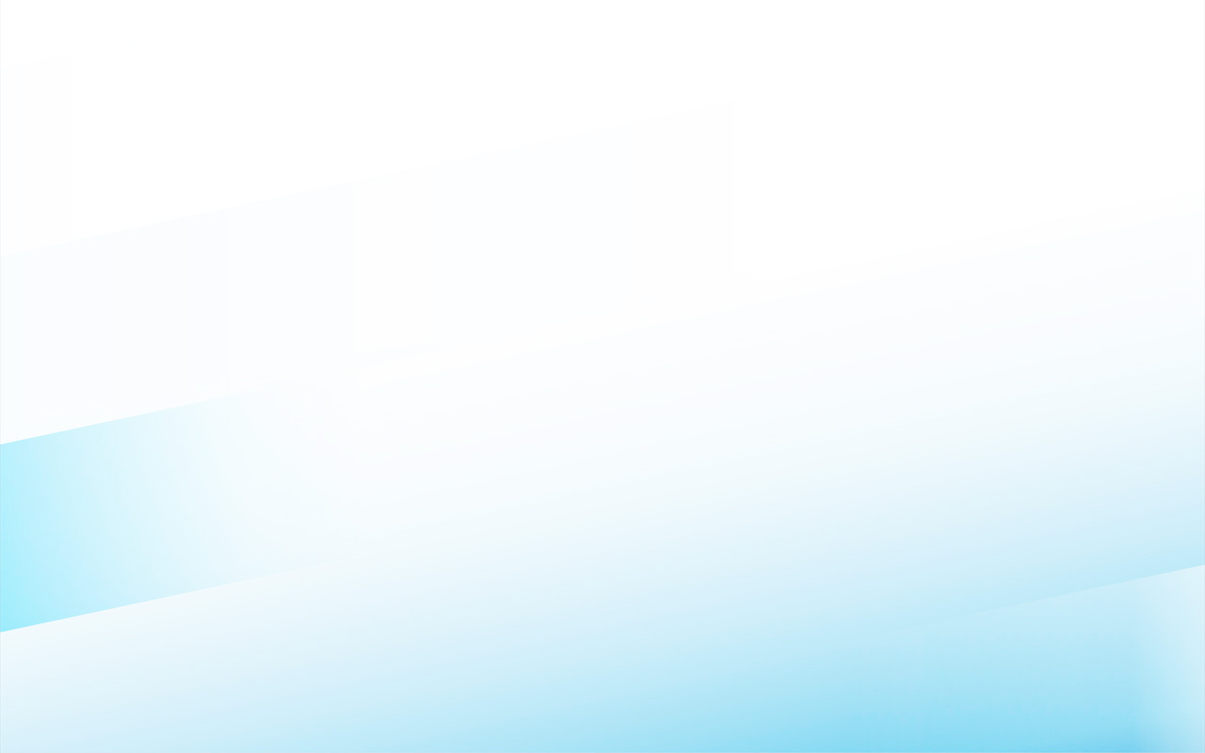
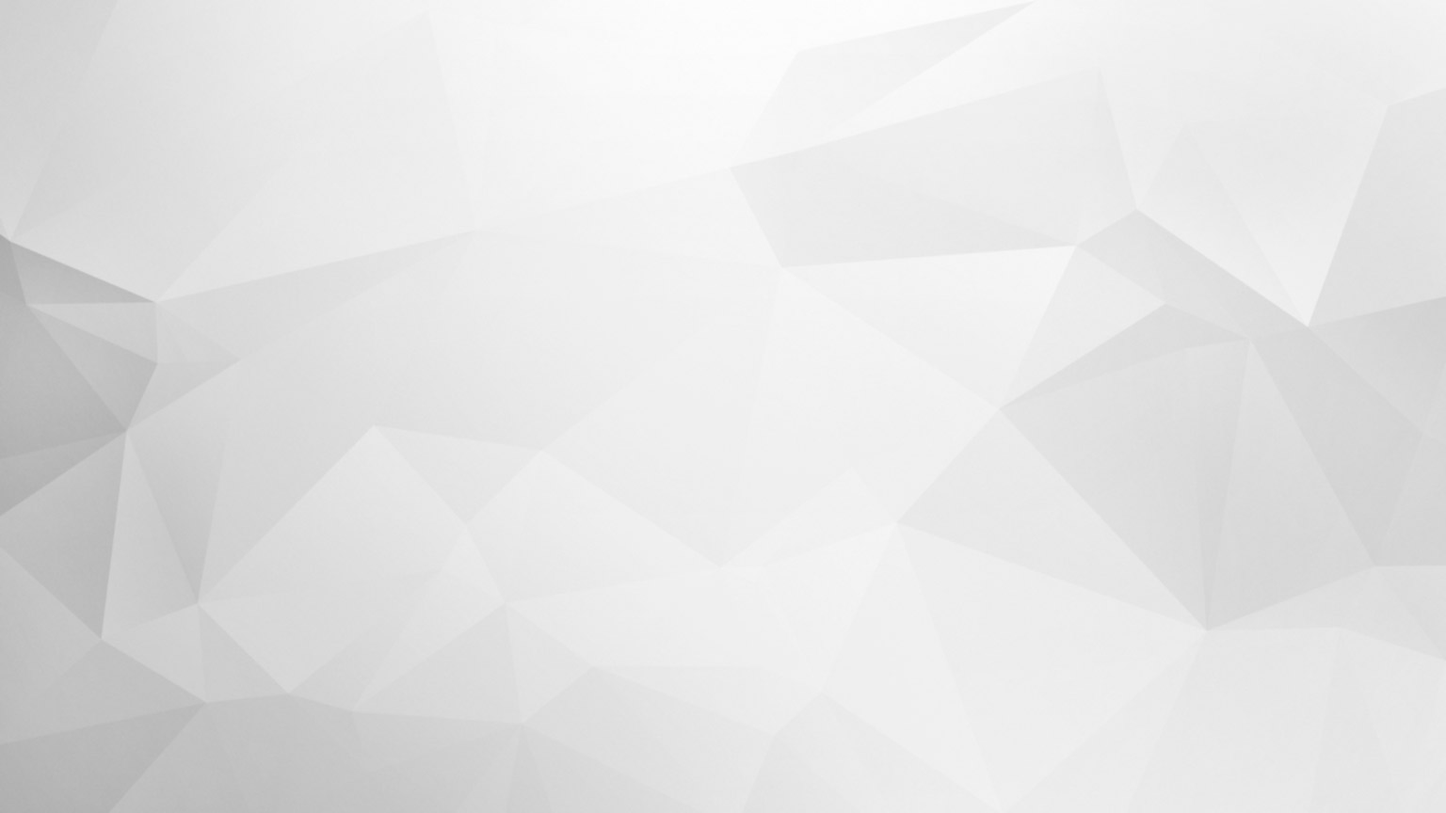
1

diff --git a/index.html b/index.html
@@ -5,7 +5,7 @@
 	<meta charset="UTF-8">
 	<meta http-equiv="X-UA-Compatible" content="IE=edge">
 	<meta name="viewport" content="width=device-width, initial-scale=1.0">
-	<link rel="shortcut icon" href="./favicon.png" type="image/x-icon" />
+	<link rel="shortcut icon" href="assets/img/favicon.png" type="image/x-icon" />
 	<script src="./assets/js/jquery-3.6.1.min.js"></script>
 	<link rel="stylesheet" href="./assets/css/null.css">
 	<link rel="stylesheet" href="./assets/css/preloader.css">
@@ -14,15 +14,13 @@
 	<link rel="stylesheet" href="./assets/css/header.css">
 	<link rel="stylesheet" href="./assets/css/intro.css">
 	<link rel="stylesheet" href="./assets/css/services.css">
-	<!--	<link rel="stylesheet" href="./assets/css/work.css">-->
-	<!--	<link rel="stylesheet" href="./assets/css/footer.css">-->
+	<link rel="stylesheet" href="./assets/css/work.css">
+	<link rel="stylesheet" href="./assets/css/contacts.css">
 	<!--	<link rel="stylesheet" href="./assets/css/comments.css">-->
 	<title>РЦТ</title>
 </head>
 
 <body>
-
-	<!-- --- Preloader --- -->
 
 	<div class="preloader">
 		<div class="preloader_loader">
@@ -72,11 +70,14 @@
 				<div class="intro">
 					<div class="intro_text">
 						<h1 class="title" data-aos="fade-right" data-aos-delay="0">Ремонт цифровой техники</h1>
-						<h2 class="suptitle" data-aos="fade-left" data-aos-delay="0">Простые решения для сложных проблем</h2>
-						<h3 class="desc" data-aos="fade-up" data-aos-delay="0">Осуществляем широкий спектр профессиональных услуг по ремонту цифровой техники
+						<h2 class="suptitle" data-aos="fade-left" data-aos-delay="0">Простые решения для сложных проблем
+						</h2>
+						<h3 class="desc" data-aos="fade-up" data-aos-delay="0">Осуществляем широкий спектр
+							профессиональных услуг по ремонту цифровой техники
 							любой сложности</h3>
 					</div>
-					<div class="intro_bg" data-aos="zoom-out" data-aos-duration="1500" data-aos-delay="400" data-aos-once="true">
+					<div class="intro_bg" data-aos="zoom-out" data-aos-duration="1500" data-aos-delay="400"
+						data-aos-once="true">
 						<img class="intro_bg_img_normal" src="./assets/img/intro-bg.png">
 						<img class="intro_bg_img_opacity" src="./assets/img/intro-bg_opacity.png">
 					</div>
@@ -143,20 +144,122 @@
 
 		<div class="section">
 			<div class="container">
-				<h1 style="display: flex; justify-content: center; align-items: center; font-size: 7em; height: 100vh;">Work</h1>
+				<h1 style="display: flex; justify-content: center; align-items: center; font-size: 7em; height: 100vh;">
+					Work</h1>
+			</div>
+		</div>
+
+		<div class="section section_relative">
+			<div class="container">
+				<div class="contacts">
+					<div class="contacts_inner">
+						<div class="contacts_header">
+							<h1 class="visible_pc">Наш адрес: г. Балаково, ул. Пионерская 1а</h1>
+							<h1 class="visible_mobile">г. Балаково, ул. Пионерская 1а</h1>
+						</div>
+						<div class="contacts_feedback">
+							<div class="modal_feedback">
+								<div class="modal_header">
+									<h1>Отправить сообщение</h1>
+								</div>
+								<div class="close_modal_feedback">
+									<span></span>
+								</div>
+								<form class="">
+									<div class="wrapper_contact">
+										<input class="input_form input_contact" placeholder="Ваше имя" type="text"
+											id="name" name="name" autocomplete="new-password" required>
+									</div>
+									<div class="wrapper_contact">
+										<input class="input_form input_contact" placeholder="Ваш email" type="email"
+											id="email" name="email" autocomplete="off" required>
+									</div>
+									<div class="wrapper_contact">
+										<input class="input_form input_contact" placeholder="Ваш телефон" type="text"
+											id="phone" name="phone" autocomplete="new" required>
+									</div>
+									<div class="wrapper_text">
+										<textarea class="input_form input_text" placeholder="Введите ваше сообщение"
+											id="message" name="message" required></textarea>
+									</div>
+									<div class="wrapper_btn">
+										<input class="input_form input_btn" type="submit" value="Отправить" />
+									</div>
+								</form>
+							</div>
+							<div class="social">
+								<a class="social_group social_start" href="tel:+79378048908">
+									<svg class="social_ico" viewBox="0 0 100 100">
+										<path class="st0"
+											d="M88,100H12c-6.6,0-12-5.4-12-12V12C0,5.4,5.4,0,12,0h76c6.6,0,12,5.4,12,12v76C100,94.6,94.6,100,88,100z" />
+										<path class="st1"
+											d="M72.4,61c-13.7-10.6-7.6,13.4-27-7.2c-18.8-18,3.7-11.9-6.4-26.2c-5.4-8.1-13.1-3.7-15.8,3.6c-0.3,16.4,17.3,33.8,31.1,41.9c4.6,2.8,13.1,4.5,15.7,3.4C76.8,72.6,80,66.3,72.4,61z" />
+									</svg>
+									<div class="social_title">+7 (937) 804-89-08</div>
+								</a>
+								<a class="social_group social_center visible_mobile">
+									<svg class="social_ico" viewBox="0 0 100 100">
+										<path class="st0"
+											d="M88,100H12c-6.6,0-12-5.4-12-12V12C0,5.4,5.4,0,12,0h76c6.6,0,12,5.4,12,12v76C100,94.6,94.6,100,88,100z" />
+										<path class="st1"
+											d="M76,72.5H24c-2.6,0-4.7-2.1-4.7-4.7V32.1c0-2.6,2.1-4.7,4.7-4.7H76c2.6,0,4.7,2.1,4.7,4.7v35.8C80.7,70.5,78.6,72.5,76,72.5z" />
+										<path class="st1" d="M20.4,29.9l26.5,18.4c1.9,1.3,4.4,1.3,6.3,0.1l26.8-18" />
+									</svg>
+									<div class="social_title">Написать нам</div>
+								</a>
+								<a class="social_group social_end" href="https://vk.com/iphone_mastep">
+									<svg class="social_ico" viewBox="0 0 100 100">
+										<path class="st0"
+											d="M88,100H12c-6.6,0-12-5.4-12-12V12C0,5.4,5.4,0,12,0h76c6.6,0,12,5.4,12,12v76C100,94.6,94.6,100,88,100z" />
+										<path class="st1"
+											d="M15.8,34.5c0.9,8,11.8,26.6,19.5,32c4,2.9,15,6.3,19.4,4.1c2-1,1.5-7.9,3.7-8.4c3.2-0.8,7.1,7.3,10.2,8.4c3.6,1.3,13.2,3.3,15.2,0c1.3-2.3-3.5-7-5-9.2c-1.3-1.8-5.8-4.5-6-6.7c-0.2-3.5,6.1-8.4,7.8-11.5c1.1-2.1,4.9-6.7,3.6-8.7c-1.1-1.8-6.3-0.5-8.4-0.6c-1.7-0.1-5.2-0.9-6.6,0c-2.1,1.3-3.3,6.8-4.7,8.8c-1.6,2.4-4.7,9.5-7.4,8.7c-2.7-0.8-1.2-8.3-1.5-11c-0.2-1.8,0.5-5.9-0.7-7.2c-1.3-1.4-5.7-1.4-7.6-1.3C45,32,38.7,32,38.4,34.3c-0.1,0.8,2.3,1.1,2.7,1.8c1.1,1.6,1.5,5.5,1.5,7.4c0,2,0,7.2-1.9,7.7c-2.7,0.7-5.8-6-7.4-8.3c-1.4-2-2.5-7.3-4.5-8.6C27.6,33.6,15.6,32.7,15.8,34.5z" />
+									</svg>
+									<div class="social_title visible_pc">vk.com/iphone_mastep</div>
+									<div class="social_title visible_mobile">iphone_mastep</div>
+								</a>
+							</div>
+						</div>
+						<div class="contacts_map">
+							<img class="map_bg" src="./assets/img/map_bg.png" alt="">
+							<div class="modal_map_api">
+								<div class="modal_map_api_wrapper">
+									<div class="close_modal_map_api"></div>
+									<iframe class="map_api"
+										src="https://yandex.ru/map-widget/v1/?um=constructor%3A841bd4e63ac08566410088f46486e4b0836964716a381337a3bcf530d069fc33&amp;source=constructor"
+										frameborder="0"></iframe>
+								</div>
+							</div>
+						</div>
+						<div class="contacts_footer">
+							<div class="time_title">
+								<p>Режим работы:</p>
+							</div>
+							<div class="wrapper_time_week_1">
+								<div class="wrapper_time_week_2">
+									<div class="time_mon-fri">
+										<p>Пн-Пт: 10.00 - 19.00</p>
+									</div>
+									<div class="time_sat">
+										<p>Сб: 10.00 - 14.00</p>
+									</div>
+								</div>
+								<div class="time_sun">
+									<p>Вс: <span>ВЫХОДНОЙ</span></p>
+								</div>
+							</div>
+						</div>
+					</div>
+				</div>
 			</div>
 		</div>
 
 		<div class="section">
 			<div class="container">
-				<h1 style="display: flex; justify-content: center; align-items: center; font-size: 7em; height: 100vh;">Contacts</h1>
+				<h1 style="display: flex; justify-content: center; align-items: center; font-size: 7em; height: 100vh;">
+					Reviews</h1>
 			</div>
 		</div>
-		<div class="section">
-			<div class="container">
-				<h1 style="display: flex; justify-content: center; align-items: center; font-size: 7em; height: 100vh;">Reviews</h1>
-			</div>
-		</div>
+
 	</div>
 
 	<script src="assets/js/fullpage.min.js"></script>
@@ -165,7 +268,10 @@
 	<script src="assets/js/burger.js"></script>
 	<!--	<script src="assets/js/slider.js"></script>-->
 	<!--	<script src="./assets/js/modal_slider.js"></script>-->
-	<!--	<script src="./assets/js/modal_feedback.js"></script>-->
+	<script src="./assets/js/modal_feedback.js"></script>
+	<script src="assets/js/open_map.js"></script>
 	<script src="assets/js/preloader.js"></script>
 
-</body></html>
+</body>
+
+</html>

diff --git a/assets/css/header.css b/assets/css/header.css
@@ -1,1 +1,1 @@
-.header{display:flex;position:fixed;align-items:center;width:100%;height:5em;overflow:hidden;background-color:#fff;z-index:100;-webkit-box-shadow:2px 2px 8px 0 rgba(34,60,80,0.2);-moz-box-shadow:2px 2px 8px 0 rgba(34,60,80,0.2);box-shadow:2px 2px 8px 0 rgba(34,60,80,0.2)}.header_inner{display:flex;justify-content:space-between;align-items:center}.header_logo{font-family:'Philosopher',sans-serif;font-size:2em;z-index:2}.header_logo_1,.header_logo_2{color:#000;text-decoration:none}.header_logo_2{display:none}.header_nav{font-family:'Comfortaa',cursive;font-weight:700;text-decoration:none;text-transform:uppercase;z-index:1}.nav_menu{margin-top:.5em}.nav_link{display:inline-block;padding:.7em;color:#000;margin:0 0 0 .3em;border-radius:.5rem;transition:all 200ms ease-in}.nav_link:first-child{margin:0}#menu a.active{color:#fff;background-color:#9a9a9a}.nav_menu .activee{color:#fff;background-color:#9a9a9a}.header_burger{display:none;position:relative;width:2.5em;height:1.5em;cursor:pointer;z-index:3}.header_burger span{position:absolute;width:80%;height:.2em;top:.6em;background-color:#000}.header_burger:before,.header_burger:after{content:"";position:absolute;width:100%;height:.2em;background-color:#000;transition:all .1s ease-in}.header_burger:before{top:0em}.header_burger:after{bottom:0}.header_burger.active span{transform:scale(0)}.header_burger.active:before{transform:rotate(45deg);background-color:#000;top:0.625em}.header_burger.active:after{transform:rotate(-45deg);background-color:#000;bottom:0.625em}@media screen and (max-width:1024px){.header_logo{order:2}.header_nav{display:flex;justify-content:center;align-items:center;position:fixed;width:40%;height:50%;top:5.5em;left:-20em;overflow:auto;opacity:0;transition:all .1s ease-in;-webkit-box-shadow:2px 2px 8px 0 rgba(34,60,80,0.2);-moz-box-shadow:2px 2px 8px 0 rgba(34,60,80,0.2);box-shadow:2px 2px 8px 0 rgba(34,60,80,0.2)}.header_nav.active{background-color:#fff;left:.4em;opacity:.98}.nav_menu{display:flex;justify-content:center;flex-direction:column;text-align:center;margin-top:0;height:100%}.nav_link{width:10em;font-size:1.1em;margin:.5em 0 0 0}.header_burger{display:block}}@media screen and (max-width:768px){.header{height:3em}.header_logo{font-size:1.5em}.header_nav{top:3.5em}.header_burger{width:2em;height:1.2em}.header_burger span{top:.5em}.header_burger.active:before{top:.5em}.header_burger.active:after{bottom:.5em}}@media screen and (max-width:500px){.header_nav{width:70%}}@media screen and (max-width:400px){.header_logo_1{display:none}.header_logo_2{display:block;font-weight:700;letter-spacing:.5em}}
+.header{background:#fff url(../img/bg.jpg) center;background-size:cover;-webkit-background-size:cover;-webkit-background-attachment:fixed;background-attachment:fixed;-webkit-font-smoothing:antialiased;position:fixed;display:flex;align-items:center;width:100%;height:3.5em;overflow:hidden;background-color:#fff;z-index:99;-webkit-box-shadow:2px 2px 8px 0 rgba(34,60,80,0.2);-moz-box-shadow:2px 2px 8px 0 rgba(34,60,80,0.2);box-shadow:2px 2px 8px 0 rgba(34,60,80,0.2)}.header_inner{display:flex;justify-content:space-between;align-items:center}.header_logo{font-family:'Philosopher',sans-serif;font-size:2em;z-index:999}.header_logo_1,.header_logo_2{color:#000;text-decoration:none}.header_logo_2{display:none}.header_nav{font-family:'Comfortaa',cursive;font-weight:700;text-decoration:none;text-transform:uppercase;z-index:99}.nav_link{display:inline-block;padding:.7em .7em .6em .7em;color:#000;border-radius:.5rem;transition:all 200ms ease-in}#menu a.active{color:#fff;background-color:#9a9a9a}.header_burger{display:none;position:relative;width:2.5em;height:1.5em;cursor:pointer;z-index:9999}.header_burger span{position:absolute;width:80%;height:.2em;top:.6em;background-color:#000}.header_burger:before,.header_burger:after{content:"";position:absolute;width:100%;height:.2em;background-color:#000;transition:all .1s ease-in}.header_burger:before{top:0em}.header_burger:after{bottom:0}.header_burger.active span{transform:scale(0)}.header_burger.active:before{transform:rotate(45deg);background-color:#000;top:0.625em}.header_burger.active:after{transform:rotate(-45deg);background-color:#000;bottom:0.625em}@media screen and (max-width:1024px){.header_logo{order:2}.header_nav{display:flex;justify-content:center;align-items:center;position:fixed;width:40%;height:50%;top:4em;left:-20em;overflow:auto;opacity:0;transition:all .1s ease-in;-webkit-box-shadow:2px 2px 8px 0 rgba(34,60,80,0.2);-moz-box-shadow:2px 2px 8px 0 rgba(34,60,80,0.2);box-shadow:2px 2px 8px 0 rgba(34,60,80,0.2)}.header_nav.active{background-color:#fff;left:.4em;opacity:.98}.nav_menu{display:flex;justify-content:center;flex-direction:column;text-align:center;height:100%}.nav_link{width:10em;font-size:1.1em;margin:.5em 0 0 0}.header_burger{display:block}}@media screen and (max-width:768px){.header{height:3em}.header_logo{font-size:1.5em}.header_nav{top:3.5em}.header_burger{width:2em;height:1.2em}.header_burger span{top:.5em}.header_burger.active:before{top:.5em}.header_burger.active:after{bottom:.5em}}@media screen and (max-width:500px){.header_nav{width:70%}}@media screen and (max-width:400px){.header_logo_1{display:none}.header_logo_2{display:block;font-weight:700;letter-spacing:.5em}}

diff --git a/assets/css/contacts.css b/assets/css/contacts.css
@@ -1,0 +1,1 @@
+.section_relative{position:relative}.contacts{min-height:35em;height:100vh;font-family:'Comfortaa',cursive;padding-top:3.5em}.contacts_inner{display:flex;flex-wrap:wrap;justify-content:center;height:100%}.contacts_header{display:flex;justify-content:center;align-items:center;font-size:1.5em;width:100%;height:10%}.contacts_feedback{display:flex;justify-content:center;flex-direction:column;align-items:center;width:35%;height:80%}.modal_feedback{width:100%;padding:0 1em}.modal_header{font-size:1.5em;text-align:center;padding:1em 0em}.input_form{padding:.5em;background:#fff;opacity:.8;resize:none;border:.1rem solid #cecece;border-radius:.5rem;transition:all 100ms ease-in}.input_form:hover{transform:translate(.1em,0);opacity:1}.wrapper_contact{margin-bottom:1em}.wrapper_text{margin-bottom:1em}.wrapper_btn{text-align:right}.input_contact{width:70%;height:2.5em}.input_text{width:100%;height:9.1em}.social{margin-top:1em}.social_group{display:flex;align-items:center;height:auto;margin-top:1.5em;transition:transform 100ms ease-in}.social_group:first-child{margin-top:0em}.social_group:hover{transform:translate(.1em,0)}.social_ico{width:2em;height:2em}.social_title{margin-left:.5em;color:#000;text-transform:uppercase}.st0{fill:#264b5a;stroke:#000;transition:all 0.2s linear}.st1{fill:#fff;stroke:#000;stroke-width:2;transition:all 0.2s linear}.social_group:hover .st0{fill:#5e7e8b}.visible_mobile{display:none}.contacts_map{display:flex;justify-content:center;align-items:center;width:65%;height:80%;overflow:hidden;border-radius:1rem}.map_bg{min-height:100%}.modal_map_api{position:absolute;display:none;justify-content:center;align-items:center;width:100%;height:100%;top:0;left:0;background-color:rgba(0,0,0,0.5)}.modal_map_api_wrapper{position:relative;top:2em;width:90%;height:85%}.close_modal_map_api{position:absolute;width:2.5em;height:2.5em;top:-1em;right:-3em;opacity:.7;background-color:#000;border:.2em solid #fff;border-radius:50%;cursor:pointer;transition:all 200ms ease-in}.close_modal_map_api:hover{opacity:1}.close_modal_map_api:before,.close_modal_map_api:after{content:"";position:absolute;background-color:#fff;top:50%;left:50%;width:60%;height:.2em}.close_modal_map_api:before{transform:translate3d(-50%,-50%,0) rotate(-45deg)}.close_modal_map_api:after{transform:translate3d(-50%,-50%,0) rotate(45deg)}.map_api{width:100%;height:100%;border-radius:.5rem}.modal_map_api.active{display:flex}.contacts_footer{display:flex;justify-content:center;align-items:center;height:10%;width:100%;font-size:1.5em}.contacts_footer span{color:#7e1b1b}.wrapper_time_week_1,.wrapper_time_week_2{display:flex;align-items:center}.time_mon-fri,.time_sat,.time_sun{margin-left:2em}@media screen and (min-width:2200px){}@media screen and (max-width:1040px){.contacts_feedback{padding:1em 0}.visible_pc{display:none}.visible_mobile{display:flex}.contacts_feedback{width:100%;height:10%;order:4}.modal_feedback{display:none}.contacts_inner{flex-wrap:nowrap;flex-direction:column}.contacts_header{padding:1em 0em 0em}.social{display:flex;justify-content:space-between;width:100%;margin:0}.contacts_map{width:100%;order:3}.social_group{margin-top:0}.modal_map_api_wrapper{width:98%;height:90%;top:1.8em}.close_modal_map_api{top:.5em;right:auto;left:.6em}.contacts_footer{height:auto;border-top:.1em solid rgb(177,177,177);border-bottom:.1em solid rgb(177,177,177);margin:.5em 0em 1em;padding:1em;order:2}.wrapper_time_week_2{display:block}}@media screen and (max-width:810px){.wrapper_time_week_1{display:block}.time_sat,.time_sun{margin-top:.4em}}@media screen and (max-width:768px){.modal_map_api_wrapper{width:97%;top:1.5em}}@media screen and (max-width:670px){.contacts_header,.contacts_footer{font-size:1.3em}.contacts_feedback{font-size:.8em}}@media screen and (max-width:530px){.contacts_map{align-items:normal}.contacts_feedback{height:auto}.social{flex-direction:column}.social_group{margin-top:.3em}.social_start{justify-content:flex-start}.social_center{justify-content:center}.social_end{justify-content:flex-end}.contacts_header,.contacts_feedback,.contacts_footer{font-size:1em}}@media screen and (max-width:385px){.contacts_footer{flex-direction:column}.time_mon-fri{margin-left:0em}.wrapper_time_week_1{margin-top:.8em}.time_sat,.time_sun{margin-top:.4em;margin-left:0em}}

diff --git a/assets/css/services.css b/assets/css/services.css
@@ -1,1 +1,1 @@
-.fp-overflow{overflow-y:auto;max-height:100%}.services{display:flex;justify-content:center;flex-direction:column;min-height:35.5em;height:100vh;padding-top:5.06em}.services_inner{display:flex;flex-wrap:wrap;width:100%;height:100%}.services_card{position:relative;display:flex;justify-content:center;flex-direction:column;align-items:center;width:25%;overflow:hidden;border:0.06em solid #fff}.services_card_foto{position:absolute;min-width:100%;height:100%;filter:grayscale(.3);transition:all .3s linear;z-index:1}.services_title{position:absolute;width:90%;height:25%;background-color:rgba(56,56,56,0.68);border:.01em solid #fff;left:-90%;bottom:5%;transition:all .3s linear;z-index:2}.services_title:after{content:"";position:absolute;display:block;width:0;height:.01em;background-color:#fff;left:5%;bottom:40%;transition:all .3s linear;transition-delay:140ms;z-index:4}.services_title p{position:absolute;font-size:.9em;color:#fff;top:20%;left:5%;opacity:0;transition:all .3s linear;transition-delay:150ms;z-index:3}.services_card:hover .services_card_foto{filter:grayscale(0);transform:scale(1.03)}.services_card:hover .services_title{left:2%}.services_card:hover .services_title:after{width:90%}.services_card:hover .services_title p{opacity:1}@media screen and (min-width:1920px){.services_title{font-size:1.7em}}@media screen and (max-width:2000px) and (min-height:1500px){.services_inner{height:60%}}@media screen and (max-width:1024px){.services{height:120em}.services_card{width:50%}.services_card_foto{filter:grayscale(0)}.services_title{top:5%;left:2%}.services_title:after{width:90%}.services_title p{font-size:3vw;opacity:1}}@media screen and (max-width:768px){.services{height:100em;padding-top:3em}}@media screen and (max-width:600px){.services{height:80em}}@media screen and (max-width:450px){.services{height:60em}}@media screen and (max-width:400px){.services{height:130em}.services_card{width:100%}.services_title{height:30%}.services_title:after{bottom:25%}.services_title p{font-size:6vw}}
+.fp-overflow{overflow-y:auto;max-height:100%}.services{display:flex;justify-content:center;flex-direction:column;min-height:35.5em;height:100vh;padding-top:3.5em}.services_inner{display:flex;flex-wrap:wrap;width:100%;height:100%}.services_card{position:relative;display:flex;justify-content:center;flex-direction:column;align-items:center;width:25%;overflow:hidden;border:0.06em solid #fff}.services_card_foto{position:absolute;min-width:100%;height:100%;filter:grayscale(.3);transition:all .3s linear;z-index:4}.services_title{position:absolute;width:90%;height:25%;background-color:rgba(56,56,56,0.68);border:.01em solid #fff;left:-90%;bottom:5%;transition:all .3s linear;z-index:5}.services_title:after{content:"";position:absolute;display:block;width:0;height:.01em;background-color:#fff;left:5%;bottom:40%;transition:all .3s linear;transition-delay:140ms;z-index:7}.services_title p{position:absolute;font-size:.9em;color:#fff;top:20%;left:5%;opacity:0;transition:all .3s linear;transition-delay:150ms;z-index:6}.services_card:hover .services_card_foto{filter:grayscale(0);transform:scale(1.03)}.services_card:hover .services_title{left:2%}.services_card:hover .services_title:after{width:90%}.services_card:hover .services_title p{opacity:1}@media screen and (min-width:1920px){.services_title{font-size:1.7em}}@media screen and (max-width:2000px) and (min-height:1500px){.services_inner{height:60%}}@media screen and (max-width:1024px){.services{height:120em}.services_card{width:50%}.services_card_foto{filter:grayscale(0)}.services_title{top:5%;left:2%}.services_title:after{width:90%}.services_title p{font-size:3vw;opacity:1}}@media screen and (max-width:768px){.services{height:100em;padding-top:3em}}@media screen and (max-width:600px){.services{height:80em}}@media screen and (max-width:450px){.services{height:60em}}@media screen and (max-width:400px){.services{height:130em}.services_card{width:100%}.services_title{height:30%}.services_title:after{bottom:25%}.services_title p{font-size:6vw}}

diff --git a/assets/css/preloader.css b/assets/css/preloader.css
@@ -1,108 +1,1 @@
-.preloader {
-	background-color: #fafafa;
-	position: fixed;
-	top: 0;
-	right: 0;
-	bottom: 0;
-	left: 0;
-	z-index: 999999;
-}
-
-.preloader_loader {
-	position: absolute;
-	top: 50%;
-	left: 50%;
-	transform: translate(-50%, -50%)
-}
-
-.lds-spinner {
-	width: 80px;
-	height: 80px;
-}
-
-.lds-spinner div {
-	transform-origin: 40px 40px;
-	animation: lds-spinner 1.2s linear infinite;
-}
-
-.lds-spinner div:after {
-	content: "";
-	display: block;
-	position: absolute;
-	top: 8px;
-	left: 37px;
-	width: 6px;
-	height: 18px;
-	border-radius: 20%;
-	background: #aaaaaa;
-}
-
-.lds-spinner div:nth-child(1) {
-	transform: rotate(0deg);
-	animation-delay: -1.1s;
-}
-
-.lds-spinner div:nth-child(2) {
-	transform: rotate(30deg);
-	animation-delay: -1s;
-}
-
-.lds-spinner div:nth-child(3) {
-	transform: rotate(60deg);
-	animation-delay: -0.9s;
-}
-
-.lds-spinner div:nth-child(4) {
-	transform: rotate(90deg);
-	animation-delay: -0.8s;
-}
-
-.lds-spinner div:nth-child(5) {
-	transform: rotate(120deg);
-	animation-delay: -0.7s;
-}
-
-.lds-spinner div:nth-child(6) {
-	transform: rotate(150deg);
-	animation-delay: -0.6s;
-}
-
-.lds-spinner div:nth-child(7) {
-	transform: rotate(180deg);
-	animation-delay: -0.5s;
-}
-
-.lds-spinner div:nth-child(8) {
-	transform: rotate(210deg);
-	animation-delay: -0.4s;
-}
-
-.lds-spinner div:nth-child(9) {
-	transform: rotate(240deg);
-	animation-delay: -0.3s;
-}
-
-.lds-spinner div:nth-child(10) {
-	transform: rotate(270deg);
-	animation-delay: -0.2s;
-}
-
-.lds-spinner div:nth-child(11) {
-	transform: rotate(300deg);
-	animation-delay: -0.1s;
-}
-
-.lds-spinner div:nth-child(12) {
-	transform: rotate(330deg);
-	animation-delay: 0s;
-}
-
-@keyframes lds-spinner {
-	0% {
-		opacity: 1;
-	}
-
-	100% {
-		opacity: 0;
-	}
-}
+.preloader{background-color:#fafafa;position:fixed;top:0;right:0;bottom:0;left:0;z-index:999999}.preloader_loader{position:absolute;top:50%;left:50%;transform:translate(-50%,-50%)}.lds-spinner{width:80px;height:80px}.lds-spinner div{transform-origin:40px 40px;animation:lds-spinner 1.2s linear infinite}.lds-spinner div:after{content:"";display:block;position:absolute;top:8px;left:37px;width:6px;height:18px;border-radius:20%;background:#aaaaaa}.lds-spinner div:nth-child(1){transform:rotate(0deg);animation-delay:-1.1s}.lds-spinner div:nth-child(2){transform:rotate(30deg);animation-delay:-1s}.lds-spinner div:nth-child(3){transform:rotate(60deg);animation-delay:-0.9s}.lds-spinner div:nth-child(4){transform:rotate(90deg);animation-delay:-0.8s}.lds-spinner div:nth-child(5){transform:rotate(120deg);animation-delay:-0.7s}.lds-spinner div:nth-child(6){transform:rotate(150deg);animation-delay:-0.6s}.lds-spinner div:nth-child(7){transform:rotate(180deg);animation-delay:-0.5s}.lds-spinner div:nth-child(8){transform:rotate(210deg);animation-delay:-0.4s}.lds-spinner div:nth-child(9){transform:rotate(240deg);animation-delay:-0.3s}.lds-spinner div:nth-child(10){transform:rotate(270deg);animation-delay:-0.2s}.lds-spinner div:nth-child(11){transform:rotate(300deg);animation-delay:-0.1s}.lds-spinner div:nth-child(12){transform:rotate(330deg);animation-delay:0s}@keyframes lds-spinner{0%{opacity:1}100%{opacity:0}}

diff --git a/assets/css/intro.css b/assets/css/intro.css
@@ -1,1 +1,1 @@
-.intro_flex{display:flex;justify-content:center;flex-direction:column}.intro{display:flex;height:100vh;min-height:38em}.intro_text{display:flex;justify-content:center;flex-direction:column;width:70%}.title{font-family:'Neucha',cursive;font-size:3.9vw;text-align:left;margin-bottom:.5em}.suptitle{font-family:'Neucha',cursive;font-size:2.5vw;text-align:right}.suptitle:after{content:'';display:block;width:50%;height:.01em;background:#7b7b7b;margin:1.3em auto}.desc{font-family:'Neucha',cursive;font-style:italic;font-size:1.9vw;text-align:left}.intro_bg{position:relative;display:flex;align-items:center;width:30%}.intro_bg img{position:absolute;width:85%;right:0}.intro_bg_img_opacity{display:none}@media screen and (min-width:2200px){.intro{height:auto;padding:30em 0}.title{font-size:5em}.suptitle{font-size:3.1em}.desc{font-size:2.4em}}@media screen and (max-width:1440px){.title{font-size:5vw}.suptitle{font-size:3.5vw}.desc{font-size:2.8vw}}@media screen and (max-width:768px){.intro{position:relative;justify-content:center;align-items:center}.intro_text{position:absolute;z-index:2}.intro_bg{position:absolute;align-items:normal;width:100%;height:30em;bottom:4em;z-index:1}.intro_bg img{width:auto;height:100%}.intro_bg_img_normal{display:none}.intro_bg_img_opacity{display:block}}@media screen and (max-width:500px){.intro_text{width:100%}.title{font-size:8.8vw;text-align:center}.suptitle{font-size:5.8vw;text-align:center}.desc{font-size:6vw;text-align:center}}
+.intro_flex{display:flex;justify-content:center;flex-direction:column}.intro{display:flex;height:100vh;min-height:38em}.intro_text{display:flex;justify-content:center;flex-direction:column;width:70%}.title{font-family:'Neucha',cursive;font-size:3.9vw;text-align:left;margin-bottom:.5em}.suptitle{font-family:'Neucha',cursive;font-size:2.5vw;text-align:right}.suptitle:after{content:'';display:block;width:50%;height:.01em;background:#7b7b7b;margin:1.3em auto}.desc{font-family:'Neucha',cursive;font-style:italic;font-size:1.9vw;text-align:left}.intro_bg{position:relative;display:flex;align-items:center;width:30%}.intro_bg img{position:absolute;width:85%;right:0}.intro_bg_img_opacity{display:none}@media screen and (min-width:2200px){.title{font-size:5em}.suptitle{font-size:3.1em}.desc{font-size:2.4em}}@media screen and (max-width:1440px){.title{font-size:5vw}.suptitle{font-size:3.5vw}.desc{font-size:2.8vw}}@media screen and (max-width:768px){.intro{position:relative;justify-content:center;align-items:center}.intro_text{position:absolute;z-index:2}.intro_bg{position:absolute;align-items:normal;width:100%;height:30em;bottom:4em;z-index:1}.intro_bg img{width:auto;height:100%}.intro_bg_img_normal{display:none}.intro_bg_img_opacity{display:block}}@media screen and (max-width:500px){.intro_text{width:100%}.title{font-size:8.8vw;text-align:center}.suptitle{font-size:5.8vw;text-align:center}.desc{font-size:6vw;text-align:center}}

diff --git a/assets/css/style.css b/assets/css/style.css
@@ -8,17 +8,13 @@
 /* font-family: 'Neucha', cursive; */
 /* font-family: 'Roboto', sans-serif; */
 
-
 body {
-	/*
-	background: #f3f7fb url(../img/bg.jpg) center;
+	background: #fff url(../img/bg.jpg) center;
 	background-size: cover;
 	-webkit-background-size: cover;
 	-webkit-background-attachment: fixed;
 	background-attachment: fixed;
 	-webkit-font-smoothing: antialiased;
-*/
-	background-color: #fff;
 	font-size: 16px;
 	font-family: 'Roboto', sans-serif;
 }

diff --git a/assets/js/modal_feedback.js b/assets/js/modal_feedback.js
@@ -1,0 +1,13 @@
+$(document).ready(function () {
+	$('.modal_feedback').click(function (event) {
+		$('.modal_feedback').toggleClass('active');
+		$('body').toggleClass('lock');
+	});
+});
+
+$(document).ready(function () {
+	$('.close_modal_feedback').click(function (event) {
+		$('.modal_feedback').removeClass('active');
+		$('body').removeClass('lock');
+	});
+});

diff --git a/assets/js/fullpage_option.js b/assets/js/fullpage_option.js
@@ -1,5 +1,5 @@
 var myFullpage = new fullpage('#fullpage', {
-	sectionsColor: ['#fff', '#fff', '#fff', '#fff', '#fff'],
+	//	sectionsColor: ['#fff', '#fff', '#fff', '#fff', '#fff'],
 	anchors: ['intro', 'services', 'work', 'contacts', 'reviews'],
 	navigation: false,
 	navigationTooltips: ['intro', 'services', 'work', 'contacts', 'reviews'],

diff --git a/assets/js/open_map.js b/assets/js/open_map.js
@@ -1,0 +1,11 @@
+$(document).ready(function () {
+	$('.map_bg').click(function (event) {
+		$('.modal_map_api').toggleClass('active');
+	});
+});
+
+$(document).ready(function () {
+	$('.close_modal_map_api, .modal_map_api').click(function (event) {
+		$('.modal_map_api').removeClass('active');
+	});
+});
